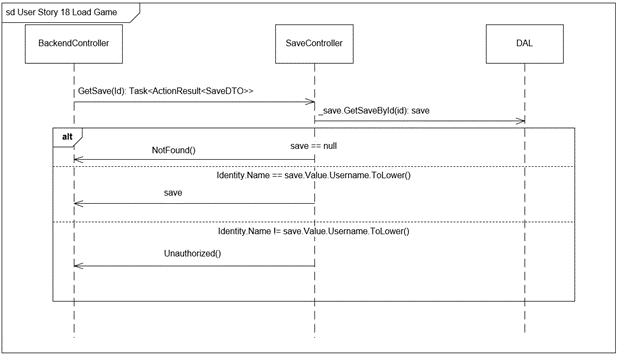
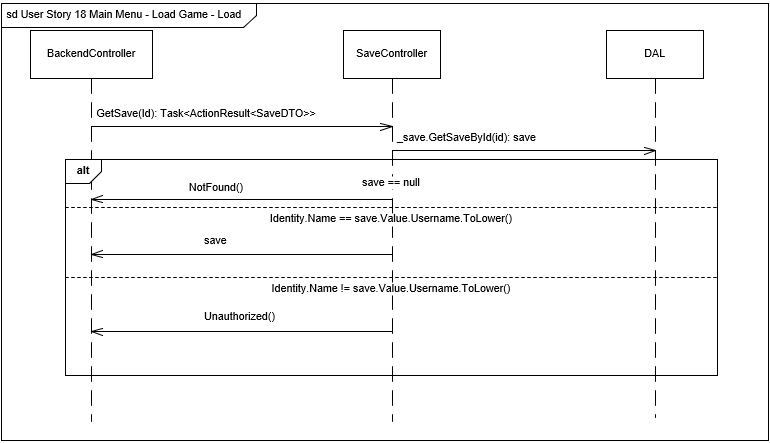
fixet user story numbers

diff --git a/ProjectBilag/02-Body/Design/BackendDesign.tex b/ProjectBilag/02-Body/Design/BackendDesign.tex
@@ -73,7 +73,7 @@ Klassen vil gøre brug af en HttpClient som er en klasse .Net stiller til rådig
 
 
 \subsection{Applikationsmodeller}
-I dette afsnit gennemgåes applikationsmodeller for de enkelte user stories, der udarbejdes sekvensdiagrammer for at beskrive funktionalitet og klasse diagrammer til at beskrive indeholdet og sammen spillet imellem klasserne. Applikationsmodellerne deles op efter controllere, en for UserControlleren og en for SaveControlleren. Fokuset vil her ligge på controller klasserne, for en beskrivelse af DAL komponenterne henvises til database design afsnitet \autoref{ssec:DB Design}.\\
+I dette afsnit gennemgåes applikationsmodeller for de user stories som vedrører backend'en, der udarbejdes sekvensdiagrammer for at beskrive funktionalitet og klasse diagrammer til at beskrive indeholdet og sammen spillet imellem klasserne. Applikationsmodellerne deles op efter controllere, en for UserControlleren og en for SaveControlleren. Fokuset vil her ligge på controller klasserne, for en beskrivelse af DAL komponenterne henvises til database design afsnitet \autoref{ssec:DB Design}.\\
 
 \subsubsection{Applikationsmodel User Controller}
 \textbf{User Story 1: Log in}\\
@@ -112,33 +112,33 @@ På \autoref{fig:Design-Backend-Klasse-1-2} kan ses en oversigt over de klasser,
 \end{figure}
 
 \subsubsection{Applikationsmodel Save Controller}
-\textbf{User Story 7: Exit Menu -\g Save and Exit}\\
+\textbf{User Story 15: Save Menu - Save Game}\\
 Load/save controlleren fra C3 modellen er blevet til en enkelt controller, som kaldes for ”SaveController”. Denne controller har til ansvar at gemme et spil, men samtidig også være i stand til at kunne hente gemte spil, altså at loade dem.
-Når clienten udfører en HTTP request med URL’en : ” https://localhost:7046/api/Save”, udføres følgende aktioner som fremgår af sekvensdiagrammet på \autoref{fig:Design-Backend-Sekvens-7}\\
+Når clienten udfører en HTTP request med URL’en : ” https://localhost:7046/api/Save”, udføres følgende aktioner som fremgår af sekvensdiagrammet på \autoref{fig:Design-Backend-Sekvens-15}\\
 
 \begin{figure}[H]
 \centering
-\includegraphics[width = \textwidth]{02-Body/Images/Backend_sekvens_7.PNG}
-\caption{sekvensdiagram over User Story 7 Save and Exit}
-\label{fig:Design-Backend-Sekvens-7}
+\includegraphics[width = \textwidth]{02-Body/Images/Backend_sekvens_15.PNG}
+\caption{sekvensdiagram over User Story 15 Save and Exit}
+\label{fig:Design-Backend-Sekvens-15}
 \end{figure}
 
 Der bruges en httpPost funktion kaldet PostSave som gemmer et nyt spil i databasen ved at ligge det modtagene gamestate fra parameter listen ind i et funktionskald SaveGame() i DAL klassen, som så sørger for at gemme spillet i databasen på den korrekte måde.\\
 
-\textbf{User Story 17: Exit Menu -\g Save and Exit}\\
+\textbf{User Story 17: Main Menu - Load Game}\\
 
 Når clienten udfører en HTTP request med URL’en : ” https://localhost:7046/api/Save/Get List Of Saves”, udføres følgende aktioner som fremgår af sekvensdiagrammet på \autoref{fig:Design-Backend-Sekvens-17}\\
 
 \begin{figure}[H]
 \centering
 \includegraphics[width = \textwidth]{02-Body/Images/Backend_sekvens_17.PNG}
-\caption{Sekvensdiagram over User Story 17 Main Menu -\g Load List Game}
+\caption{Sekvensdiagram over User Story 17 Main Menu - Load Game}
 \label{fig:Design-Backend-Sekvens-17}
 \end{figure}
 
 Da vi gerne vil gøre det muligt at have 5 save games pr. profil, skal det naturligvis være muligt at kunne vælge mellem de forskellige saves, til dette laves funktion GetListOfSaves(). Clienten kalder her GetListOfSaves() som er et HttpGet endpoint, denne funktion henter alle saves i DAL klassen ved at kalde GetAllSaves(). SaveController finder så de gemte spil i listen hvor brugernavnet passer med den burger, som er logget ind ved brug af User.Identity som stilles til rådighed af ControllerBase klassen, her i kan claims for den nuværende JWT nemlig findes.\\
 
-\textbf{UserStory 18 : Main Menu -\g Load Game -\g Load}\\
+\textbf{UserStory 18 : Main Menu - Load Game - Load}\\
 Når clienten udfører en HTTP request med URL’en :” https://localhost:7046/api/Save?id={id}”, udføres følgende aktioner som fremgår af sekvensdiagrammet på \autoref{fig:Design-Backend-Sekvens-18}\\
 
 \begin{figure}[H]
@@ -148,18 +148,15 @@ Når clienten udfører en HTTP request med URL’en :” https://localhost:7046/
 \label{fig:Design-Backend-Sekvens-18}
 \end{figure}
 
-\textbf{User Story 19 : Main Menu -\g Load Game -\g Delete Game}\\
 
-Under design fasen blev det besluttet at overskrive gemte saves fremfor at slette og lave et nyt, da et saves Id på den måde ikke ændret sig i databasen når man lavede et nyt save. Derfor er User story 19 som omhandler Delete game ikke taget med i design fasen.\\
-
-\textbf{Samlet klasse diagram over User story 7, 17 og 18}\\
-Et Samlet klasse diagram for User story 7, 17 og 18 kan ses på \autoref{fig:Design-Backend-Sekvens-7-17-18}\\
+\textbf{Samlet klasse diagram over User story 15, 17 og 18}\\
+Et Samlet klasse diagram for User story 15, 17 og 18 kan ses på \autoref{fig:Design-Backend-Sekvens-15-17-18}\\
 
 \begin{figure}[H]
 \centering
-\includegraphics[width = \textwidth]{02-Body/Images/Backend_klasse_7_17_18.PNG}
-\caption{Samlet klasse diagram for User story 7, 17 og 18}
-\label{fig:Design-Backend-Sekvens-7-17-18}
+\includegraphics[width = \textwidth]{02-Body/Images/Backend_klasse_15_17_18.PNG}
+\caption{Samlet klasse diagram for User story 15, 17 og 18}
+\label{fig:Design-Backend-Sekvens-15-17-18}
 \end{figure}
 
 Udover de funktioner som bliver brugt i User stories, tilføjes der er en funktion GetRoomDescription, som blot henter en beskrivelse af det rum brugeren befinder sig i.\\

diff --git a/ProjectBilag/02-Body/Arkitektur/BackendArkitektur.tex b/ProjectBilag/02-Body/Arkitektur/BackendArkitektur.tex
@@ -31,10 +31,11 @@ De relevante user stories for backend containeren udvælges. Disse omhandler hå
 \begin{itemize}
 \item User Story 1 : Log in
 \item User Story 2 : Opret Bruger
-\item UserStory 7 : Exit Menu -\g Save and Exit
-\item UserStory 17 : Main Menu -\g Load List Game
-\item UserStory 18 : Main Menu -\g Load Game -\g Load
-\item UserStory 19 : Main Menu -\g Load Game -\g Delete Game
+\item User Story 8: Exit Menu - Save - No combat
+\item UserStory 15 : Save Menu - Save Game
+\item UserStory 18 : Main Menu - Load Game - Load
+
+
 \end{itemize}
 Af de ikke funktionelle krav er følgende krav relevante:
 \begin{itemize}
@@ -59,7 +60,7 @@ Der bygges videre på C4 modellen for systemet , et level 3 component diagram ov
 Figuren illustrerer en lagdelt struktur, hvor der ses en client som kalder ned i controllerne Authentication og Save Controller, som kalder videre til DAL, som så tilgår databasen denne kommunikationsvej går begge veje.
 
 \textbf{Client:}\\
-Der eksisterer en client, som kommunikerer med backenden Game Module. Game Module’s kald til backenden kan overordnet set indeles i to undergrupper, bruger håndtering og save håndtering. Bruger håndtering indeholder kald som omhandler login og registreing  (User story 1 og 2), hvor save håndtering omhandler loading og saving af Game state (User story 7, 17, 18 og 19). Kommuniaktionen her vil foregå ved netværkskald med protokolen HTTPS. Clienten udfører request/response kald til backenden igennem specifikke URL’s. For at data objekterne kan sendes frem og tilbage med HTTPS kæves disse seralizeres og deseralizeres mellem JSON-objekter og .Net objekter.\\
+Der eksisterer en client, som kommunikerer med backenden Game Module. Game Module’s kald til backenden kan overordnet set indeles i to undergrupper, bruger håndtering og save håndtering. Bruger håndtering indeholder kald som omhandler login og registreing  (User story 1 og 2), hvor save håndtering omhandler loading og saving af Game state (User story 8, 15, 17 og 18). Kommuniaktionen her vil foregå ved netværkskald med protokolen HTTPS. Clienten udfører request/response kald til backenden igennem specifikke URL’s. For at data objekterne kan sendes frem og tilbage med HTTPS kæves disse seralizeres og deseralizeres mellem JSON-objekter og .Net objekter.\\
 \textbf{Controller:}\\
 Inde i backenden anvendes ASP. Net MVC controllere \cite{MVC controller} til at modtage og svare på kald fra clienten. Der laves en controller for Bruger håndtering og en controller for Save håndtering. Hver request mappes til en specifik controller. Controllerne vil så indeholde action metoder, som udføres når den modtagere et kald. Når controlleren har udført sin action retuneres et Action Result, hvor i et data objekt kan wrappes eller den kan indeholde en fejlmeddelse hvis noget går galt.\\
 \textbf{DAL:}\\

diff --git a/ProjectReport/02-Body/Docs/Kravspecifikation.tex b/ProjectReport/02-Body/Docs/Kravspecifikation.tex
@@ -22,7 +22,7 @@ I det følgende afsnit beskrives kravene for systemet. Afsnittet indeholder et u
 
 
 \subsection{Funktionelle krav - User Stories}
-Her beskrives systemets funktionelle krav. Kravene beskrives i from af User Stories, der er her taget udgangspunkt i User Story 1,2,7 og 17, da disse indebærer alle systemets dele samt den mest centrale funktionalitet.\\  
+Her beskrives systemets funktionelle krav. Kravene beskrives i from af User Stories, der er her taget udgangspunkt i User Story 1,2, 15 og 18, da disse indebærer alle systemets dele samt den mest centrale funktionalitet.\\  
  
 User Story 1: Log in \\
   Som Bruger \\
